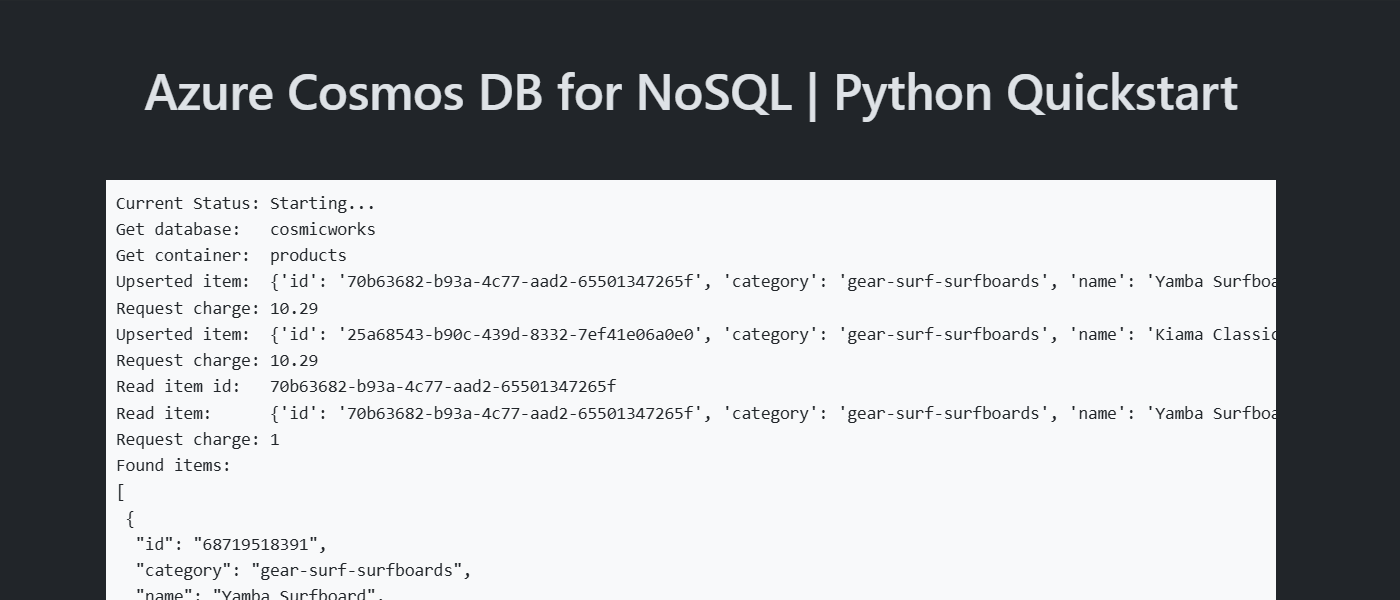
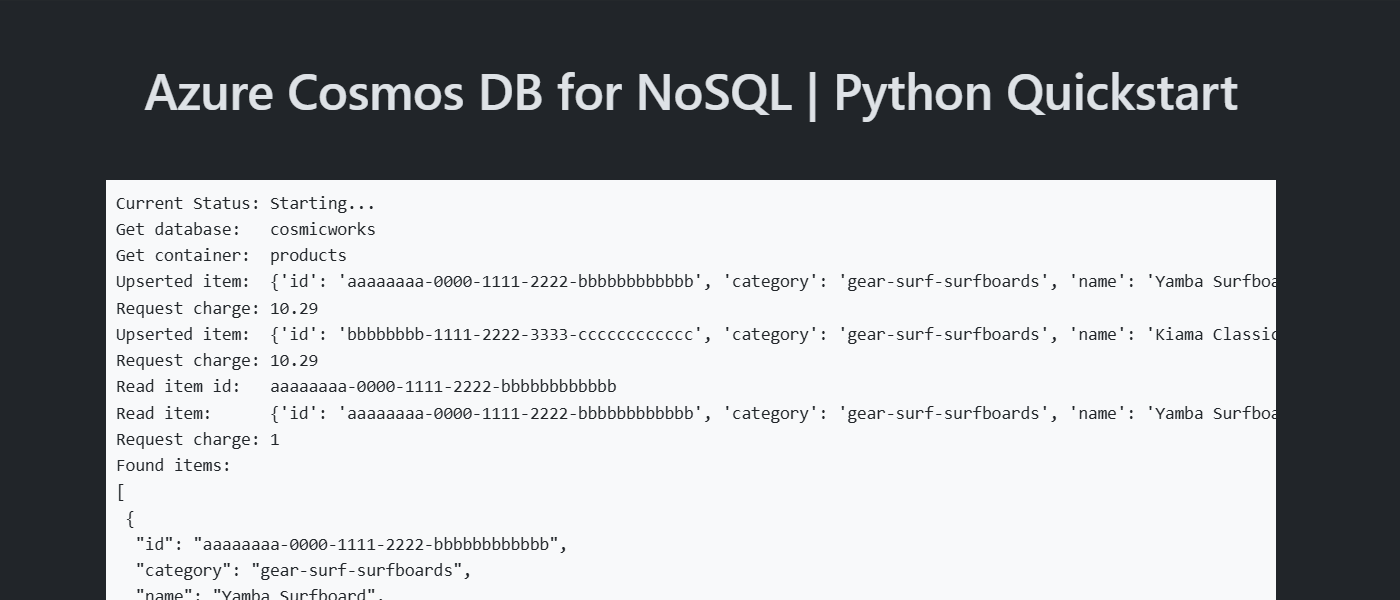
Update GUIDs

diff --git a/src/templates/index.html b/src/templates/index.html
@@ -33,7 +33,7 @@
         <i class="bi bi-arrow-clockwise me-2"></i>
         Run again
     </button>
-    <a href="https://learn.microsoft.com/azure/cosmos-db/nosql/quickstart-python#walk-through-the-python-library-code" class="list-group-item list-group-item-action" target="_blank">
+    <a href="https://learn.microsoft.com/azure/cosmos-db/nosql/quickstart-python#code-examples" class="list-group-item list-group-item-action" target="_blank">
         <i class="bi bi-book me-2"></i>
         Walk through the code for this sample application
         <small class="ms-1 align-top">            

diff --git a/src/cosmos.py b/src/cosmos.py
@@ -33,7 +33,7 @@ def runDemo(writeOutput):
     writeOutput(f"Get container:\t{container.id}")
 
     new_item = {
-        "id": "70b63682-b93a-4c77-aad2-65501347265f",
+        "id": "aaaaaaaa-0000-1111-2222-bbbbbbbbbbbb",
         "category": "gear-surf-surfboards",
         "name": "Yamba Surfboard",
         "quantity": 12,
@@ -45,7 +45,7 @@ def runDemo(writeOutput):
     writeOutput("Request charge:\t" f"{getLastRequestCharge(container)}")
 
     new_item = {
-        "id": "25a68543-b90c-439d-8332-7ef41e06a0e0",
+        "id": "bbbbbbbb-1111-2222-3333-cccccccccccc",
         "category": "gear-surf-surfboards",
         "name": "Kiama Classic Surfboard",
         "quantity": 4,
@@ -56,7 +56,7 @@ def runDemo(writeOutput):
     writeOutput(f"Request charge:\t{getLastRequestCharge(container)}")
 
     existing_item = container.read_item(
-        item="70b63682-b93a-4c77-aad2-65501347265f",
+        item="aaaaaaaa-0000-1111-2222-bbbbbbbbbbbb",
         partition_key="gear-surf-surfboards",
     )
 
